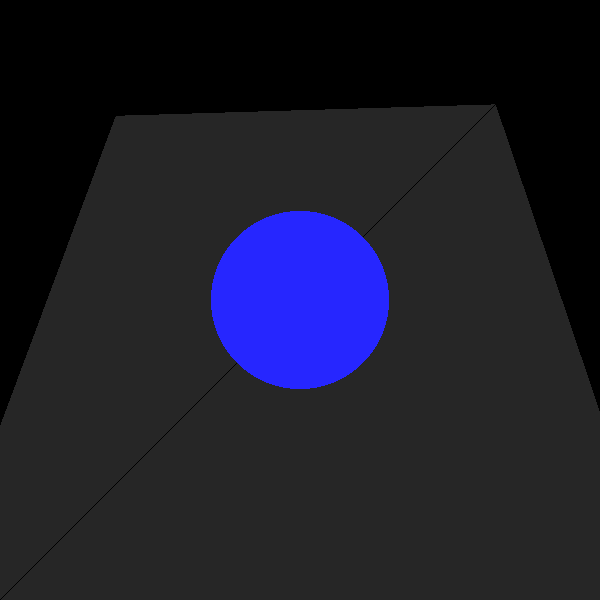
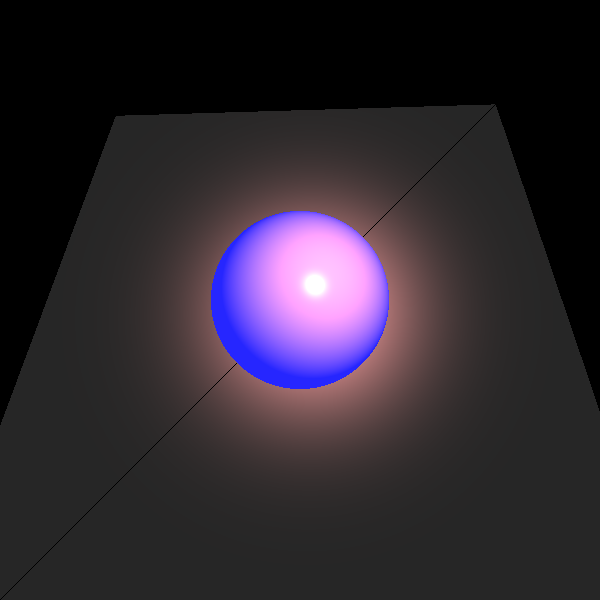
unshaded dasen't work

Changed region(s): [[0.24, 0.27, 0.78, 0.78]]

diff --git a/src/renderer/RayTracerBasic.java b/src/renderer/RayTracerBasic.java
@@ -115,22 +115,21 @@ public class RayTracerBasic extends RayTracerBase {
 			Vector epsVector = n.scale(n.dotProduct(lightDirection) < 0 ? DELTA : -DELTA);
 			Point point = gp.point.add(epsVector);
 			Ray lightRay = new Ray(point, lightDirection);
+			double lightDistance =lightSource.getDistance(gp.point);// the distance between the light source and the geopoint
 			List<GeoPoint> intersections = scene.geometries.findGeoIntersections(lightRay,lightSource.getDistance(gp.point));
 // Flat geometry can't self-intersect
 		if (intersections == null)
 			return true;
 		for (GeoPoint intersection: intersections) {
-			if (lightSource.getDistance(intersection.point)< lightSource.getDistance(gp.point))
+			if (alignZero(intersection.point.distance(gp.point)-lightDistance) <= 0)
 				return  false;
-
-
 		}
 		return true;
 
-
-
 }
 }
+
+
 
 
 
